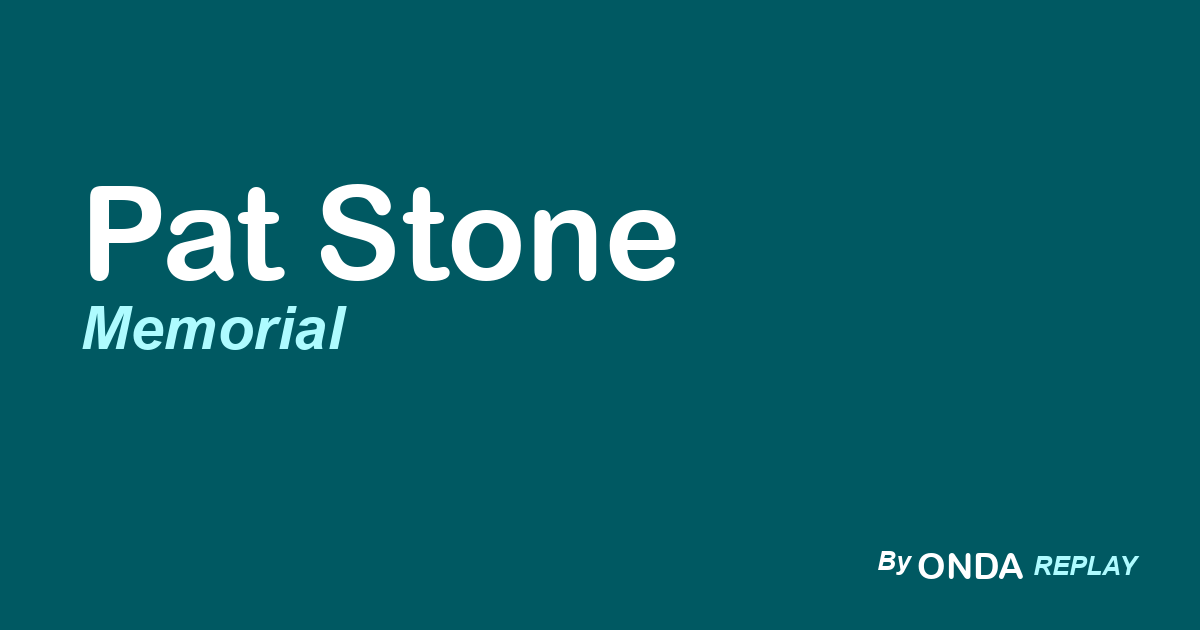
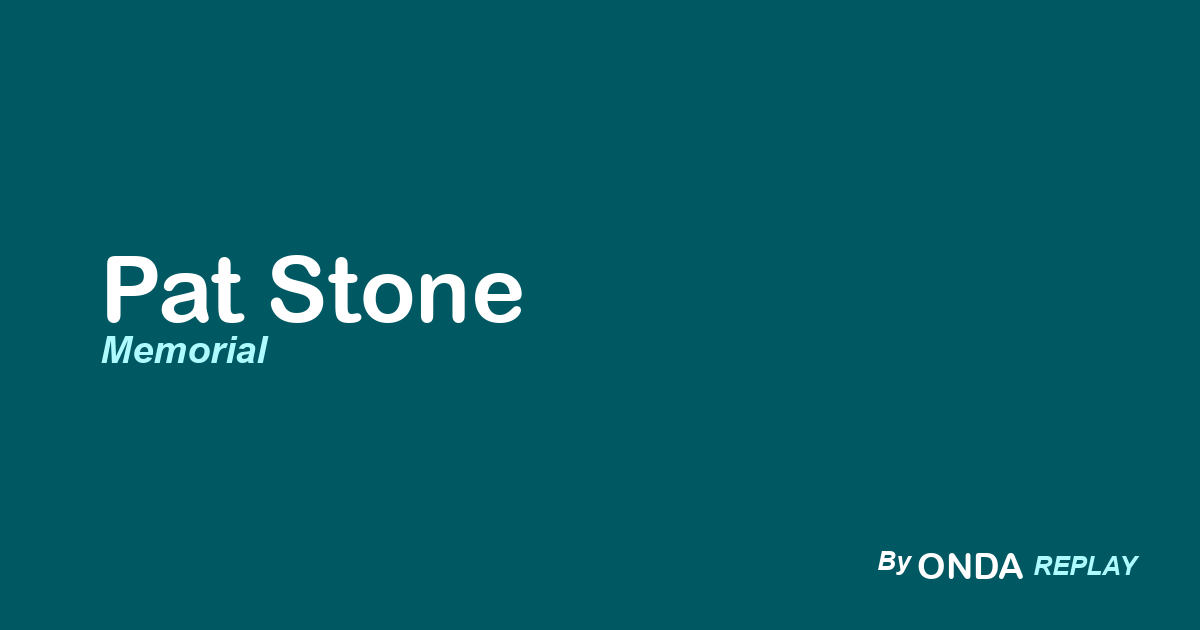
Scale down station link-preview card typography
Name was capped at 130pt and pinned near the top of the 1200x630
card — too loud/billboard-like for a memorial share card. Capped at
92pt and vertically centered the name+subtitle block instead.

Changed region(s): [[0.0617, 0.2714, 0.5858, 0.573]]

diff --git a/tools/make_station_card.py b/tools/make_station_card.py
@@ -47,27 +47,34 @@ def make_card_image(name: str, subtitle: str, out_path: Path) -> None:
     img = Image.new("RGB", (W, H), BG)
     draw = ImageDraw.Draw(img)
 
-    name_font = ImageFont.truetype(F_BOLD, 130)
-    sub_font = ImageFont.truetype(F_BOLD_ITAL, 60)
-    pad_x = 80
+    pad_x = 100
 
     # Shrink the name font until it fits within the card width, so a long
-    # name (or two names) doesn't run off the right edge.
+    # name (or two names) doesn't run off the right edge. Capped at 92pt —
+    # a smaller, more restrained scale than the name of an app or a headline;
+    # this is someone's name on a memorial card, not a billboard.
     max_text_w = W - pad_x * 2
-    size = 130
-    while size > 50:
+    size = 92
+    while size > 44:
         name_font = ImageFont.truetype(F_BOLD, size)
         w = draw.textbbox((0, 0), name, font=name_font)[2]
         if w <= max_text_w:
             break
-        size -= 6
+        size -= 4
+
+    sub_font = ImageFont.truetype(F_BOLD_ITAL, 38)
 
     name_bbox = draw.textbbox((0, 0), name, font=name_font)
     name_h = name_bbox[3] - name_bbox[1]
-    name_y = 155
+    sub_bbox = draw.textbbox((0, 0), subtitle, font=sub_font)
+    sub_h = sub_bbox[3] - sub_bbox[1]
+
+    gap = 26
+    block_h = name_h + gap + sub_h
+    name_y = (H - block_h) // 2 - 20
     draw.text((pad_x, name_y), name, font=name_font, fill=WHITE)
 
-    sub_y = name_y + name_h + 42
+    sub_y = name_y + name_h + gap
     draw.text((pad_x, sub_y), subtitle, font=sub_font, fill=ACCENT)
 
     # Bottom-right credit: small, subordinate to the name. "ONDA" sized
